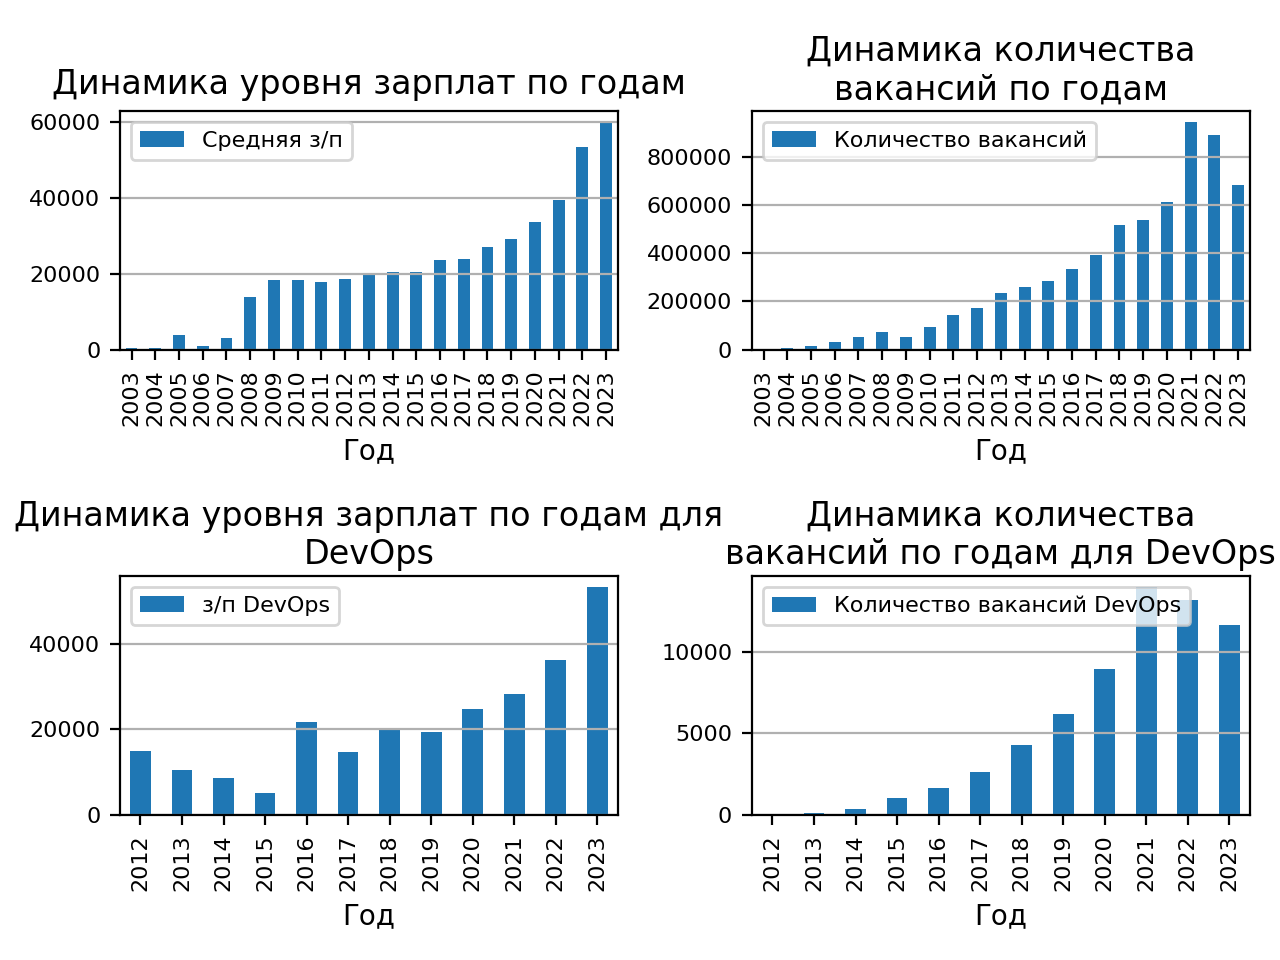
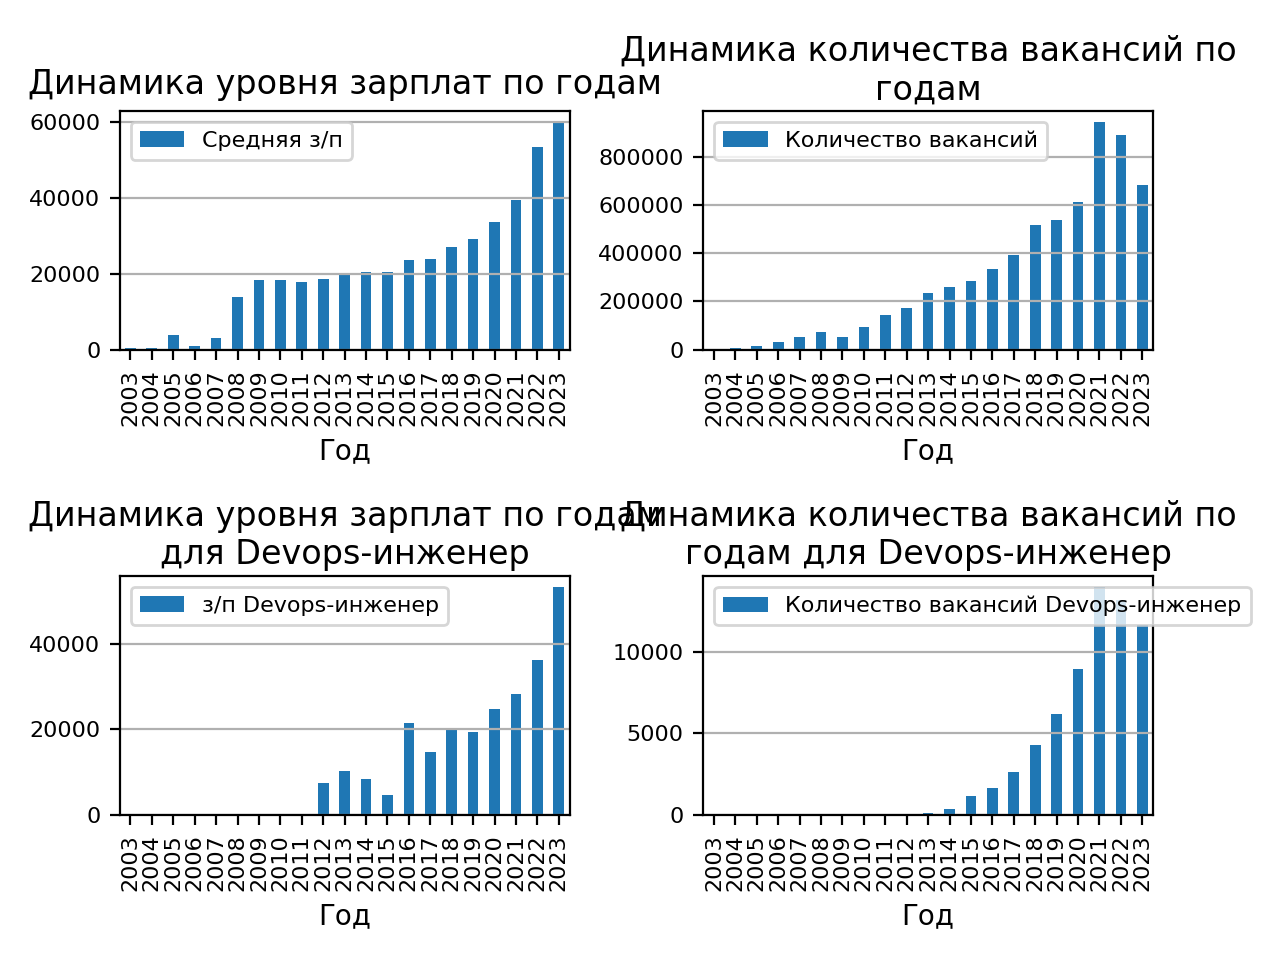
changed searching for devops

Changed region(s): [[0.0312, 0.0312, 1.0, 0.5], [0.0, 0.5, 1.0, 0.9688]]

diff --git a/src/csv_data/script.py b/src/csv_data/script.py
@@ -109,7 +109,10 @@ def get_skills_stats(df: pd.DataFrame) -> dict:
 
 def create_report(filename: str, vacancy_name: str) -> [pd.DataFrame]:
     df = get_vacancies_dataframe(filename)
-    filtered_df = df[df['название'].str.contains(vacancy_name, flags=re.IGNORECASE)]
+    if vacancy_name not in vacancies_names:
+        filtered_df = df[df['название'].str.contains(vacancy_name, flags=re.IGNORECASE)]
+    else:
+        filtered_df = df[df['название'].str.contains("|".join(vacancies_names[vacancy_name]), flags=re.IGNORECASE)]
 
     salaries_by_years = get_vacancies_stats_by_year(df)
     salaries_by_years_for_name = get_vacancies_stats_by_year(filtered_df)
@@ -227,6 +230,10 @@ def parse_csv():
     end_time = time.time()
     print(f"Время выполнения: {end_time-start_time}")
 
+
+vacancies_names = {
+    "Devops-инженер": ('devops', 'development operations')
+}
 
 start_time = time.time()
 parse_csv()
